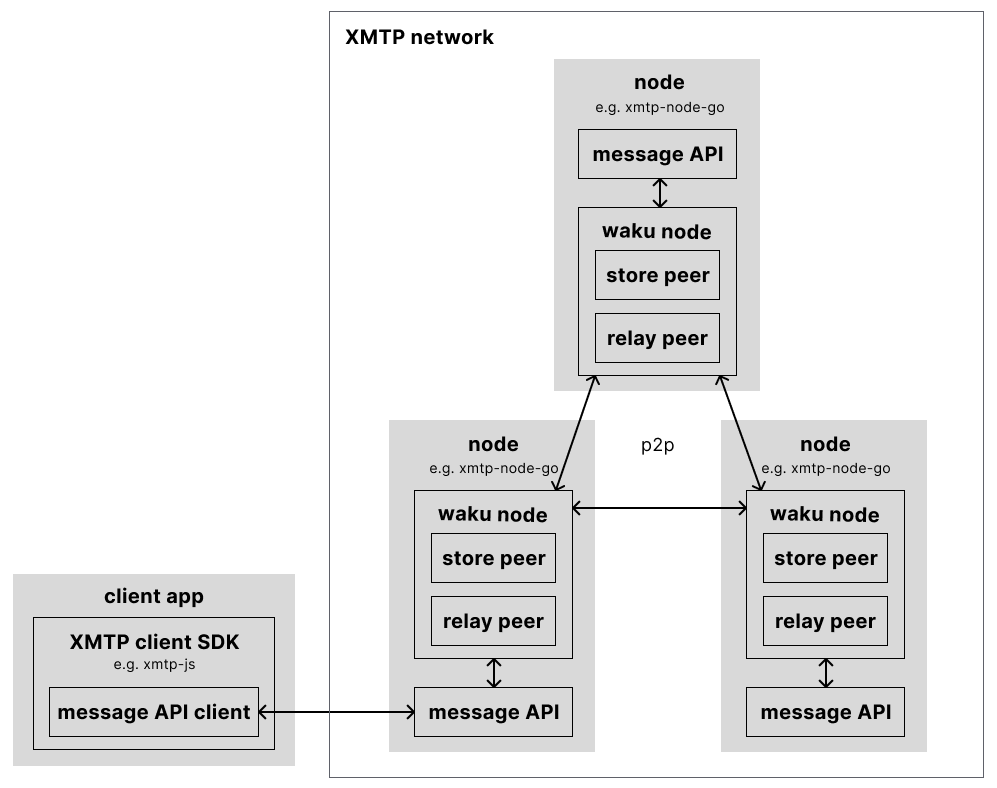
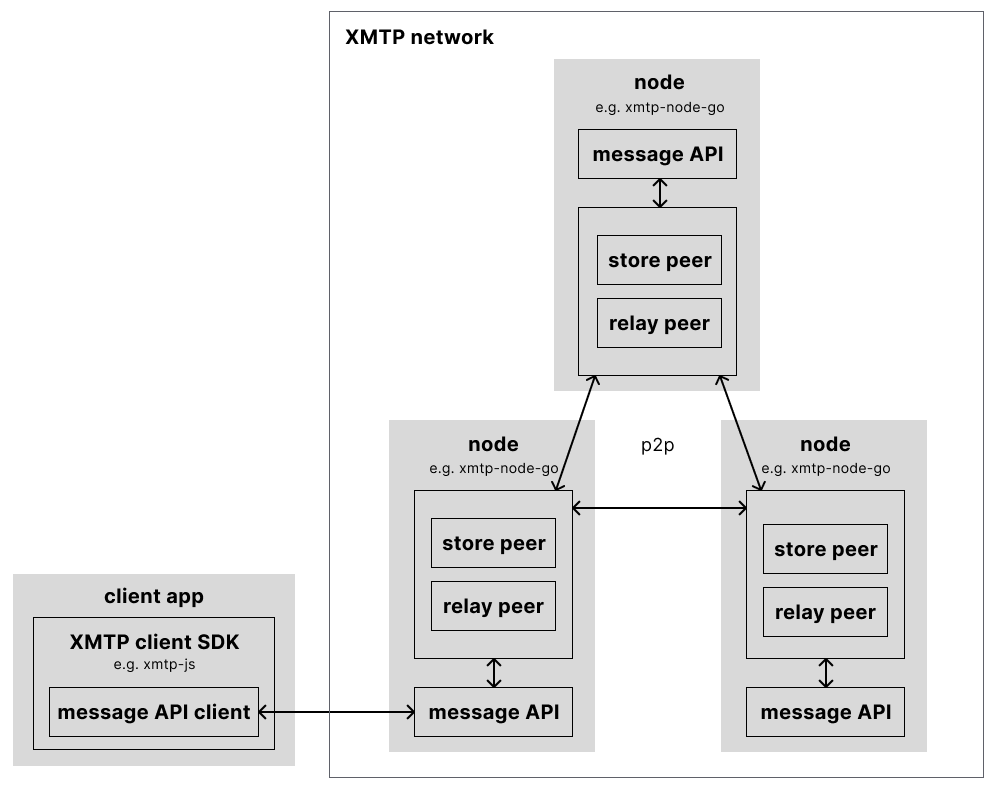
address other instances of waku in text

diff --git a/docs/concepts/architectural-overview.md b/docs/concepts/architectural-overview.md
@@ -23,13 +23,13 @@ At the most basic level, the architecture of XMTP includes three layers:
 
 The network layer provides the XMTP network, which is composed of **nodes** (computers) running XMTP node software.
 
-The XMTP network enables any computer running XMTP node software to participate in the network. Currently, the node software is closed source and all nodes in the XMTP network are operated by XMTP Labs. XMTP Labs is working toward a phased decentralization of the network. To learn more see, [XMTP: The journey to decentralization](/blog/journey-to-decentralization).
+The XMTP network enables any computer running XMTP node software to participate in the network. Currently, the node software is closed source and all nodes in the XMTP network are operated by XMTP Labs. XMTP Labs is working toward a phased decentralization of the network. To learn more, see [XMTP: The journey to decentralization](/blog/journey-to-decentralization).
 
-This diagram shows the key components of an XMTP node. The nodes provide a **message API** that enables client apps built with the XMTP client SDK to communicate with the XMTP network. The nodes use Waku node software to connect to other nodes and form a peer-to-peer network to relay and store envelopes submitted and requested by client apps.
+This diagram shows the key components of an XMTP node. The nodes provide a **message API** that enables client apps built with the XMTP client SDK to communicate with the nodes in the XMTP network through a gRPC (or JSON/HTTP) [message API](https://github.com/xmtp/proto/blob/main/proto/message_api/v1/message_api.proto). The nodes connect to other nodes and form a peer-to-peer network to relay and store envelopes submitted and requested by client apps.
 
 <a name="xmtp-node-diagram"></a>
 
-![Diagram showing three nodes connected in a peer-to-peer fashion to form the XMTP network. The diagram shows the key components of a node, including a message API and Waku node. The diagram also shows a client app connecting a message API client to the message API in a node.](img/xmtp-nodes.png)<!--Source file: [https://www.figma.com/file/77ToMB4T16NiLwJjIp7dU1/diagrams?node-id=16%3A502](https://www.figma.com/file/77ToMB4T16NiLwJjIp7dU1/diagrams?node-id=16%3A502)-->
+![Diagram showing three nodes connected in a peer-to-peer fashion to form the XMTP network. The diagram shows the key components of a node, including a message API and XMTP node. The diagram also shows a client app connecting a message API client to the message API in a node.](img/xmtp-nodes.png)<!--Source file: [https://www.figma.com/file/77ToMB4T16NiLwJjIp7dU1/diagrams?type=design&node-id=601-755&mode=design)-->
 
 Currently, nodes are configured to rate limit high-volume publishing from message API clients. A rate-limited message API client can expect to receive a 429 status code response from a node. Rate limits can change at any time in the interest of maintaining network health.
 

diff --git a/docs/faq.md b/docs/faq.md
@@ -32,7 +32,7 @@ Currently, XMTP Labs (the company) operates all of the network nodes in the two 
 
 Decentralization of the XMTP network will be achieved by a diverse set of independent third parties operating nodes.
 
-XMTP Labs is working toward a phased decentralization of the network. To learn more see, [XMTP: The journey to decentralization](/blog/journey-to-decentralization).
+XMTP Labs is working toward a phased decentralization of the network. To learn more, see [XMTP: The journey to decentralization](/blog/journey-to-decentralization).
 
 ### Is XMTP a blockchain?
 
@@ -44,15 +44,11 @@ XMTP Labs is researching various consensus protocols that would allow the networ
 
 Yes, you will be able to run a node.
 
-XMTP Labs is working toward a phased decentralization of the network. To learn more see, [XMTP: The journey to decentralization](/blog/journey-to-decentralization).
+XMTP Labs is working toward a phased decentralization of the network. To learn more, see [XMTP: The journey to decentralization](/blog/journey-to-decentralization).
 
-### What is the relationship between Waku and XMTP?
+### How do XMTP clients communicate with XMTP nodes?
 
-XMTP currently uses the Waku protocol to relay messages between network nodes.
-
-Waku is an unopinionated transport layer built around the libp2p publish/subscribe model. Waku is intentionally open-ended when it comes to handling options like message encoding and encryption, which content topics to use, and how to create and manage encryption keys linked to blockchain account addresses.
-
-XMTP provides a standardized approach to addressing these options, focusing on maximizing compatibility across apps and ensuring message security and deliverability, while also enabling as many developers as possible to use XMTP to build interoperable messaging apps.
+Clients communicate with XMTP nodes through a gRPC (or JSON/HTTP) [message API](https://github.com/xmtp/proto/blob/main/proto/message_api/v1/message_api.proto).
 
 ### What is the expected network latency for message delivery and retrieval?
 

diff --git a/docs/sdks/js.md b/docs/sdks/js.md
@@ -91,6 +91,6 @@ The following table provides the deprecation schedule:
 
 | Announced &nbsp; | Effective &nbsp; &nbsp; &nbsp; &nbsp; &nbsp; &nbsp; &nbsp; &nbsp; &nbsp; &nbsp; | Minimum version | Rationale                                                                                                              |
 | ---------------- | ------------------------------------------------------------------------------- | --------------- | ---------------------------------------------------------------------------------------------------------------------- |
-| 2022-08-18       | 2022-11-08                                                                      | v6.0.0          | The XMTP network will stop supporting the Waku/libp2p-based client interface in favor of the new GRPC-based interface. |
+| 2022-08-18       | 2022-11-08                                                                      | v6.0.0          | The XMTP network will stop supporting the Waku/libp2p-based client interface in favor of the new gRPC-based interface. |
 
 Issues and PRs are welcome in accordance with XMTP [contribution guidelines](https://github.com/xmtp/xmtp-js/blob/main/CONTRIBUTING.md).
